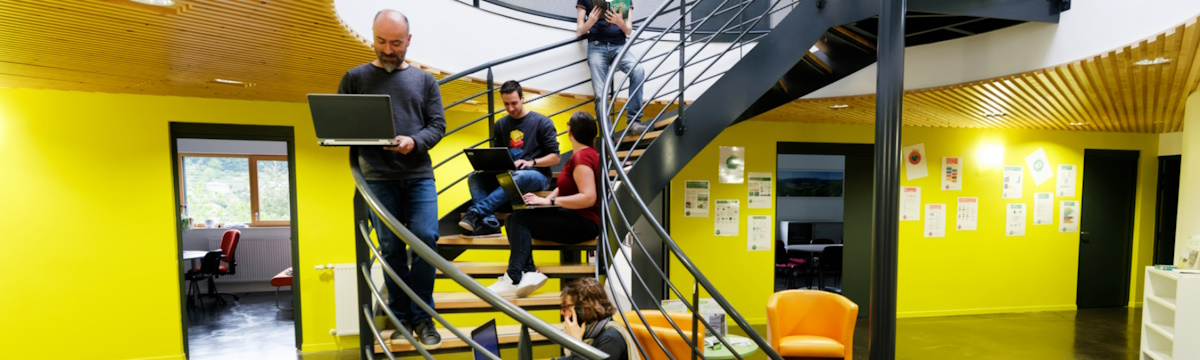
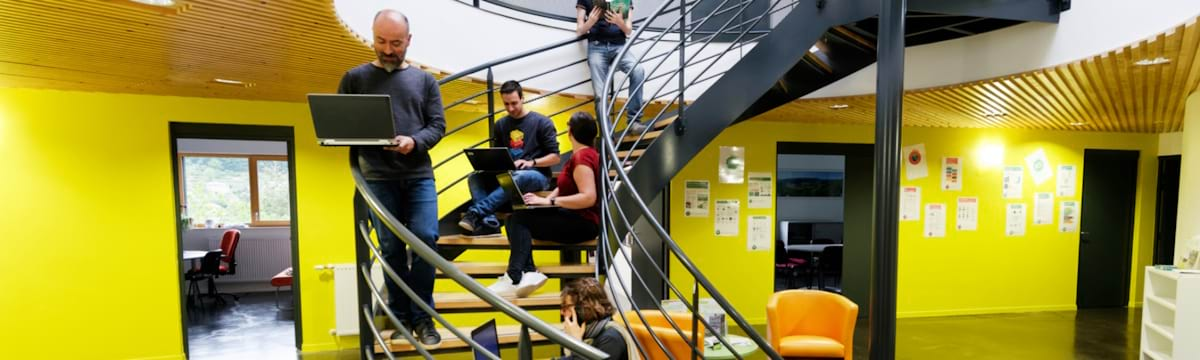
Reducing the weight of images to improve site performance

diff --git a/src/data/experienceData.jsx b/src/data/experienceData.jsx
@@ -1,7 +1,7 @@
 import iconConduentPath from './../assets/images/experiences/conduent_business_solutions_france.jpg';
 import iconkpinsightPath from './../assets/images/experiences/kpinsight_analytics.jpg';
 import iconPolitechPath from './../assets/images/experiences/politech.jpg';
-import iconApiculturePath from './../assets/images/experiences/apiculture.jpg';
+import iconApiculturePath from './../assets/images/experiences/apiculture.png';
 import iconArmeeDeTerrePath from './../assets/images/experiences/armee_de_terre.jpg';
 
 export const experienceData = [

diff --git a/src/components/headerPortfolioSection/HeaderPortfolioSection.scss b/src/components/headerPortfolioSection/HeaderPortfolioSection.scss
@@ -4,7 +4,7 @@
   /* -----------------------------------
  * --------------- Container header
 ----------------------------------- */
-  background-image: url(../../assets/backgrounds/bg_header_portfolio.jpg);
+  background-image: url(../../assets/backgrounds/bg_header_portfolio.png);
   background-color: map-get(map-get($background, on-primary), 75);
   background-size: cover;
   background-repeat: no-repeat;

diff --git a/src/data/patchsData.jsx b/src/data/patchsData.jsx
@@ -1,5 +1,10 @@
 export const patchsData = [
   {
+    date: '24/04/2024',
+    version: '0.0.2',
+    description: ['Reducing the weight of images to improve site performance.'],
+  },
+  {
     date: '23/04/2024',
     version: '0.0.1',
     description: [
